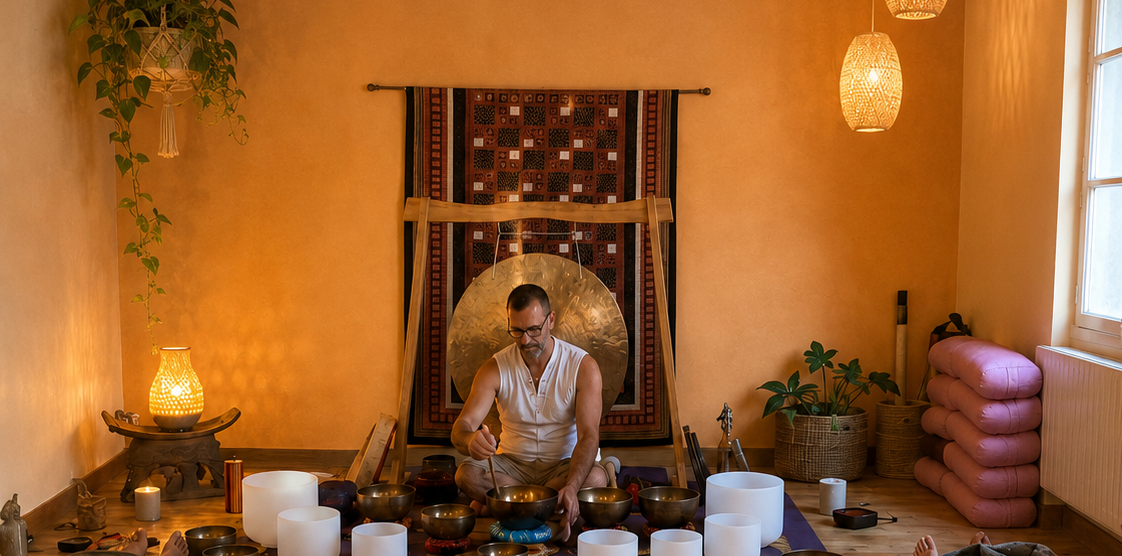
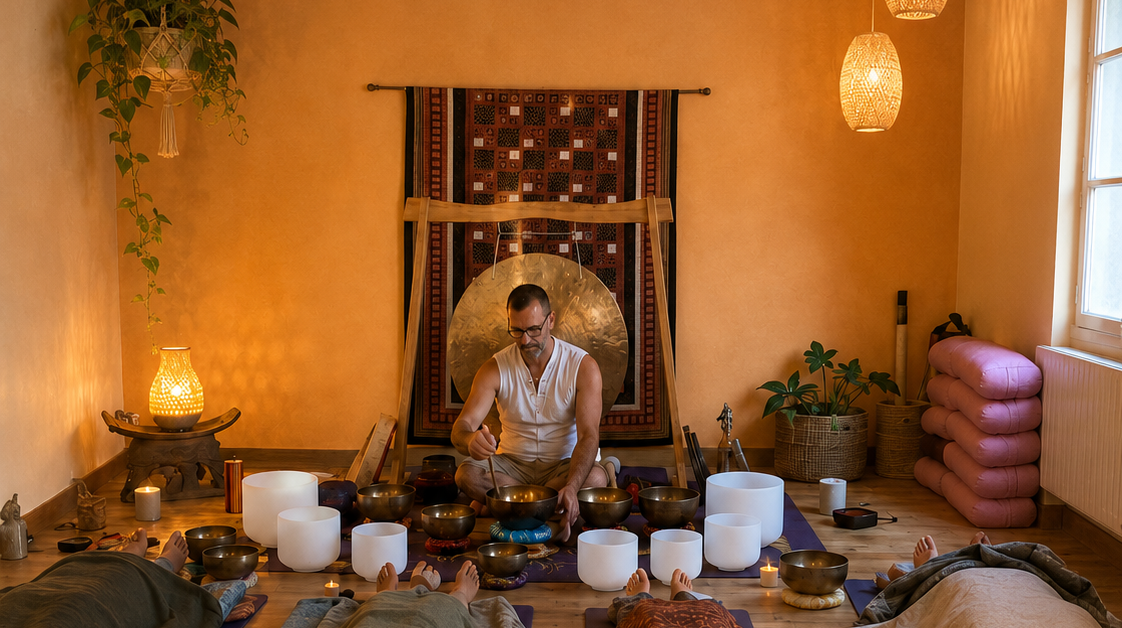
a

diff --git a/index.html b/index.html
@@ -906,13 +906,13 @@ window.addEventListener('load', () => {
 				>
 
 					<p style="text-align: left;">
-						Pandant ce voyage, les vibrations de differents instruments viennent progressivement créer 1 espace où le corps peut se relâcher et le mental se ralentir.
+						Pandant ce voyage, les vibrations de differents instruments viennent progressivement créer un espace où le corps peut se relâcher et le mental ralentir.
 					</p>
 
 					<i>
 						<p style="text-align: left;">
-							Dans l'atmosphère chaleureuse et intimiste de l'Espace Devi, je vous invite à vous allonger confortablement et simplement vous laissez porter.
-							<br>Il n'y a rien à réussir, rien à provoquer. Chacun vit sa propre expérience, à son rythme et selon ce qui est juste pour lui.
+							Dans l'atmosphère chaleureuse et intimiste de l'Espace Devi, je vous invite à vous allonger confortablement et simplement vous laisser porter.
+							Il n'y a rien à réussir, rien à provoquer. Chacun vit sa propre expérience, à son rythme et selon ce qui est juste pour lui.
 						</p>
 					</i>
 
@@ -924,8 +924,8 @@ window.addEventListener('load', () => {
 						✨ Séance découverte : 20 € au lieu de 25 €
 					</p>
 
-					<p style="text-align: left;">
-						🔄 Puis tous les 15 jours, le mardi 
+					<p style="text-align: left; size: 0.8em;">
+						🔄 Puis tous les 15 jours, le mardi soir
 					</p>
 
 					<p style="text-align: left;">
@@ -2585,8 +2585,13 @@ window.addEventListener('load', () => {
 //#region LOTUS LEAVES
 {
 
+try {
+	run_flying_lotus_leaves()
+} catch (e) {
+	console.error(e)
+	write_message(`Error: ${e}`)
+}
 
-run_flying_lotus_leaves()
 
 
 
